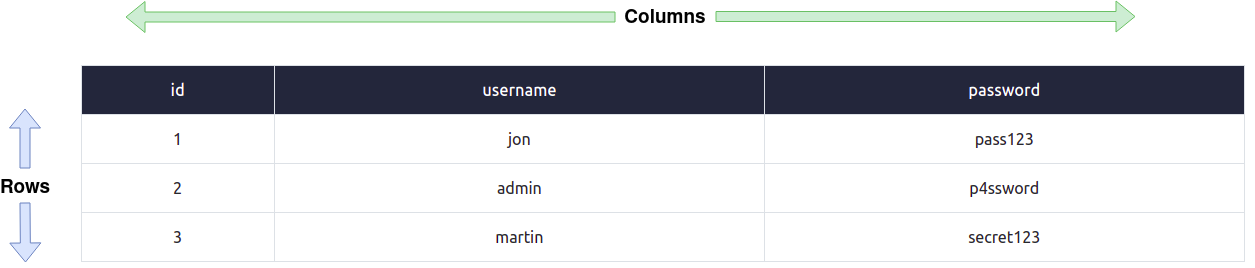
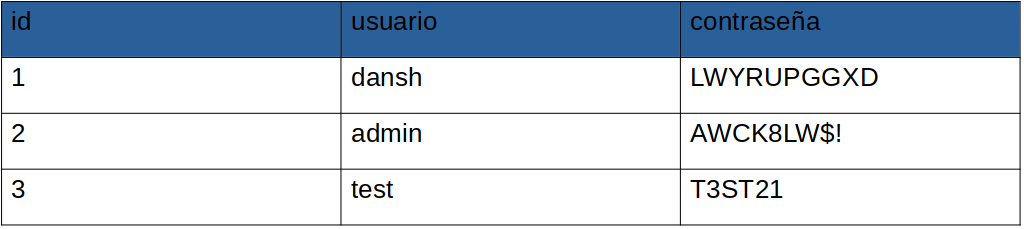
Version 1.6

diff --git a/_posts/2022-08-03-SQL-Inyection-SQLi.md b/_posts/2022-08-03-SQL-Inyection-SQLi.md
@@ -5,7 +5,7 @@ excerpt: "Explicación de como se detecta y explota una vulneravilidad de tipo S
 date: 2022-08-03
 classes: wide
 header:
-  teaser: /assets/images/SQLi.jpg
+  teaser: /assets/images/SQLi/SQLi.jpg
   teaser_home_page: true
 #  icon: /assets/images/hackthebox.webp
 categories:
@@ -15,6 +15,7 @@ tags:
   - SQLi
 ---
 
+
 # ¿Que es SQLi?
 
 **SQLi** es un ataque hacia un servidor de bases de datos web que consiste en ejecutar peticiones maliciosas usando la entrada de usuario, esto sucede cuando no está bien sanitizada la base de datos y podríamos aprovecharnos de esto para desplegar las bases de datos que están disponibles en el servidor web.
@@ -23,9 +24,16 @@ tags:
 
 # ¿Cómo está conformada una base de datos?
 
+![Tabla](/assets/images/SQLi/DBMS.png "Imagen de TryHackMe")
+
+
+
+
+# ¿Cómo está conformada una tabla de datos?
+
 Debemos recordar que una tabla en **MySQL** se conforma por partes:
 
-![Tabla](/assets/images/SQLi/tabla.png "Imagen de TryHackMe")
+![Tabla](/assets/images/SQLi/tabla.png)
 
 Vemos que está conformada por filas y columnas, debemos saber esto, ya que lo necesitaremos más adelante.
 
@@ -33,11 +41,11 @@ Vemos que está conformada por filas y columnas, debemos saber esto, ya que lo n
 
 **Columnas:**
 
-Las columnas solo pueden tener un nombre único por tabla, por ejemplo la columna de una tabla tiene estos datos "nombre", "id" "password", y estos no se pueden repetir como lo vemos aquí:
+Las columnas solo pueden tener un nombre único por tabla, por ejemplo la columna de una tabla tiene estos datos "id", "usuario" "contraseña", y estos no se pueden repetir como lo vemos aquí:
 
 ![Tabla](/assets/images/SQLi/tabla1.png)
 
-Vemos que cada columna de cada tabla tiene un nombre distinto, esto es lo que los diferencia, cada una de estas antes de declararse en mariaDB debe ser asignado el tipo de dato que se guardara dentro de esa tabla, ya sea caracteres, números etc. mariaDB es donde gestionamos la base de datos, que veremos más adelante.
+Vemos que cada columna de cada tabla tiene un nombre distinto, esto es lo que los diferencia, cada una de estas antes de declararse en el **DBMS** debe ser asignado el tipo de dato que se guardara dentro de esa tabla, ya sea caracteres, números etc. **DBMS** es donde gestionamos la base de datos, que veremos más adelante.
 
 Esto nos sirve además de tener control de nuestros datos, nos informa cuando un dato que no corresponde a su tipo que se ingresó nos muestra un error diciéndonos para poder corregir lo que sea necesario.
 
@@ -52,3 +60,4 @@ Las filas son las que contienen los campos de datos separados, cuando se agregan
 como se ve a continuacion:
 
 ![Tabla](/assets/images/SQLi/tabla2.png)
+
